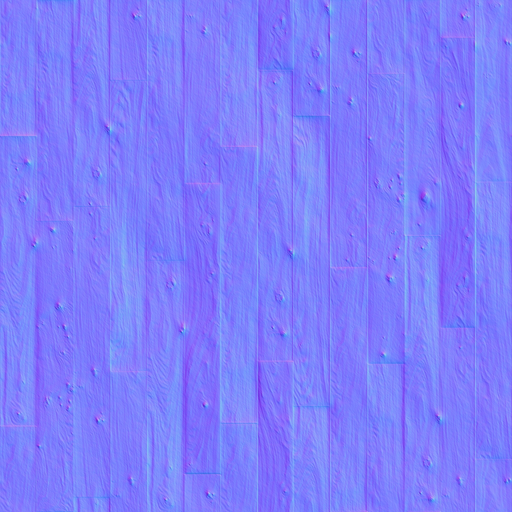
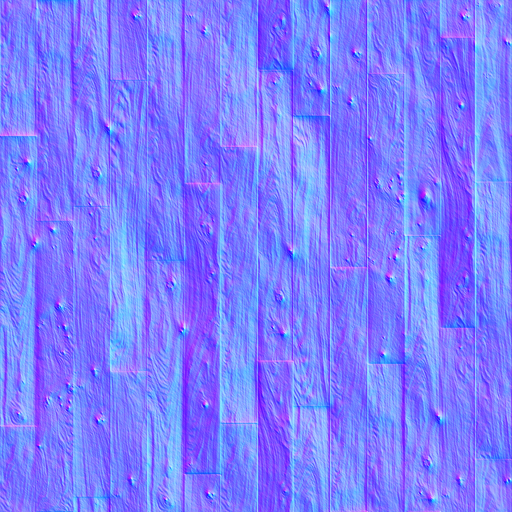
Somewhat working specular normal maps

diff --git a/game/Playing.cpp b/game/Playing.cpp
@@ -17,63 +17,31 @@
 
 void Playing::on(){
 	Entity* origin = EntityManager::createEntity("main");
+	//origin->getComponent<Transform>()->setScale(glm::vec3(10, 10, 10));
 	origin->addComponent(new Grid(512, 8, 8, Grid::AxisZ));
-
-
-	Entity* camera = EntityManager::createEntity("player");
-	//camera->getComponent<Transform>()->setPosition(glm::vec3(0, 0, -256));
-	//camera->getComponent<Transform>()->setRotation(glm::quat(glm::vec3(glm::radians(90.f), 0, 0)));
-	camera->addComponent(new Camera);
-	camera->getComponent<Camera>()->set2d(false);
-	camera->getComponent<Camera>()->setFov(90);
-	camera->getComponent<Camera>()->setDrawDistance(1024 * 8);
-	camera->addComponent(new Input);
-	camera->addComponent(new Noclip(64.f, 0.1f));
-
-
+	//origin->addComponent(new Model("plane.obj", "wood.mtl"));
+	
 	Entity* player = EntityManager::createEntity("player");
-	player->getComponent<Transform>()->setScale(glm::vec3(8, 8, 8));
-	player->addComponent(new Velocity(1.f));
-	//player->addComponent(new Input);
-	//player->addComponent(new Movement(25000.f, 0.1f));
-	player->addComponent(new Model("sphere.obj", "white.png"));
-	//player->addComponent(new Box2d(32, 32));
-
-	//camera->getComponent<Transform>()->setParent(player->getComponent<Transform>());
-
-
-
+	player->getComponent<Transform>()->setPosition(glm::vec3(0, -512, 0));
+	player->addComponent(new Camera);
+	player->getComponent<Camera>()->set2d(false);
+	player->getComponent<Camera>()->setFov(90);
+	player->getComponent<Camera>()->setDrawDistance(1024 * 8);
+	player->addComponent(new Input);
+	player->addComponent(new Noclip(64.f, 0.1f));
 	
-	//Entity* model = EntityManager::createEntity("model");
-	//model->getComponent<Transform>()->setPosition(glm::vec3(0, 0, 0));
-	//model->getComponent<Transform>()->setScale(glm::vec3(2, 2, 2));
-	////model->getComponent<Transform>()->setRotation(glm::quat(glm::vec3(glm::radians(-90.f), 0, 0)));
-	//model->addComponent(new Model("cube.obj", "white.png", "main"));
-	//model->addComponent(new Spin(0.5f));
-	
-
 	int size = 1;
 	float spread = 256.f;
 	
 	for (int y = -size; y <= size; y++){
 		for (int x = -size; x <= size; x++){
-			Entity* box0 = EntityManager::createEntity("box");
-			box0->addComponent(new Model("bunny.obj", "wood.mtl", "main"));
-			box0->getComponent<Transform>()->setScale(glm::vec3(5, 5, 5));
-			box0->getComponent<Transform>()->setPosition(glm::vec3(x * spread, y * spread, 0));
-			box0->addComponent(new Spin(0.5f));
+			Entity* model = EntityManager::createEntity("model");
+			model->getComponent<Transform>()->setScale(glm::vec3(5, 5, 5));
+			model->getComponent<Transform>()->setPosition(glm::vec3(x * spread, y * spread, 0));
+			model->addComponent(new Model("bunny.obj", "wood.mtl", "main"));
+			model->addComponent(new Spin(0.5f));
 		}
 	}
-	
-
-	//Entity* box0 = EntityManager::createEntity("box");
-	//box0->addComponent(new Model("cube.obj", "test.mtl", "main"));
-	//box0->getComponent<Model>()->setUnlit(true);
-	//box0->getComponent<Transform>()->setScale(glm::vec3(5, 5, 5));
-	//box0->getComponent<Transform>()->setPosition(glm::vec3(0, 0, 100));
-	//box0->addComponent(new Spin(0.5f));
-
-	//player->getComponent<Transform>()->setParent(box0->getComponent<Transform>());
 
 	EntityManager::invokeAll(Entity::TRIGGER_LOAD);
 }

diff --git a/engine/Static/Module/ShaderManager.cpp b/engine/Static/Module/ShaderManager.cpp
@@ -182,9 +182,9 @@ GLuint ShaderManager::currentProgram(){
 GLint ShaderManager::_indexUniform(const std::string& name){
 	GLint value = glGetUniformLocation(_activeProgram, name.c_str());
 
-	if (value == -1){
-		message_out(("Uniform " + name + " == -1.\n").c_str());
-	}
+	//if (value == -1){
+	//	message_out(("Uniform " + name + " == -1.\n").c_str());
+	//}
 
 	return value;
 }
@@ -192,9 +192,9 @@ GLint ShaderManager::_indexUniform(const std::string& name){
 GLint ShaderManager::_indexAttribute(const std::string& name){
 	GLint value = glGetAttribLocation(_activeProgram, name.c_str());
 
-	if (value == -1){
-		message_out(("Attribute " + name + " == -1.\n").c_str());
-	}
+	//if (value == -1){
+	//	message_out(("Attribute " + name + " == -1.\n").c_str());
+	//}
 
 	return value;
 }
@@ -212,6 +212,14 @@ void ShaderManager::uniform(unsigned int index, const glm::vec3& value){
 }
 
 void ShaderManager::uniform(const std::string& name, const glm::vec3& value){
+	uniform(_indexUniform(name), value);
+}
+
+void ShaderManager::uniform(unsigned int index, const glm::vec2& value){
+	glUniform2fv(index, 1, &value[0]);
+}
+
+void ShaderManager::uniform(const std::string& name, const glm::vec2& value){
 	uniform(_indexUniform(name), value);
 }
 

diff --git a/engine/Component/Model.cpp b/engine/Component/Model.cpp
@@ -93,12 +93,9 @@ void Model::render(){
 			glm::vec3 position = lightPosition->getComponent<Transform>()->position();
 
 			position.z = -position.z;
-			//position.x = -position.x;
-			//position.y = -position.y;
 
 			glm::vec3 difference = position - _transform->position();
 
-			//message_out("%.2f %.2f %.2f\n", position.x, position.y, position.z);
 
 			glm::vec3 direction = glm::normalize(difference);
 
@@ -113,19 +110,9 @@ void Model::render(){
 			distance = clamp(0, 1, changeRange(0, maxDistance, 1, 0, distance));
 
 			Renderer::shaderManager().attribute("in_lightDistance", distance);
-
-
-			//glm::vec3 direction = glm::normalize(glm::vec3(difference.x, 0, -difference.y));
-
-			//glm::vec3 direction = glm::normalize(glm::vec3(difference.x, -difference.z, -difference.y));
-
-			//glm::vec3 position = lightPosition->getComponent<Transform>()->position();
-
-			
-
-			//Renderer::shaderManager().attribute("in_direction", directional);
 		}
 
+		Renderer::shaderManager().uniform("uniform_resolution", Renderer::window().size());
 
 		//GLint light = glGetAttribLocation(program, "in_light");
 		//

diff --git a/engine/Static/Module/ShaderManager.hpp b/engine/Static/Module/ShaderManager.hpp
@@ -64,8 +64,12 @@ public:
 	void uniform(unsigned int index, const glm::vec3& value);
 	void uniform(const std::string& name, const glm::vec3& value);
 
+	void uniform(unsigned int index, const glm::vec2& value);
+	void uniform(const std::string& name, const glm::vec2& value);
+
 	void uniform(unsigned int index, GLint value);
 	void uniform(const std::string& name, GLint value);
+
 	
 	void attribute(unsigned int index, const glm::vec3& value);
 	void attribute(const std::string& name, const glm::vec3& value);

diff --git a/engine/Static/Module/Window.hpp b/engine/Static/Module/Window.hpp
@@ -2,6 +2,7 @@
 
 #include <SDL.h>
 #include <string>
+#include <glm\vec2.hpp>
 
 class Window{
 	std::string _title = "";
@@ -34,6 +35,7 @@ public:
 	bool running();
 	int width();
 	int height();
+	glm::vec2 size();
 	SDL_Window* sdlWindow();
 
 	void flip();

diff --git a/engine/Static/Module/Window.cpp b/engine/Static/Module/Window.cpp
@@ -86,6 +86,10 @@ int Window::height(){
 	return _height;
 }
 
+glm::vec2 Window::size(){
+	return glm::vec2(_width, _height);
+}
+
 SDL_Window* Window::sdlWindow(){
 	return _sdlWindow;
 }
